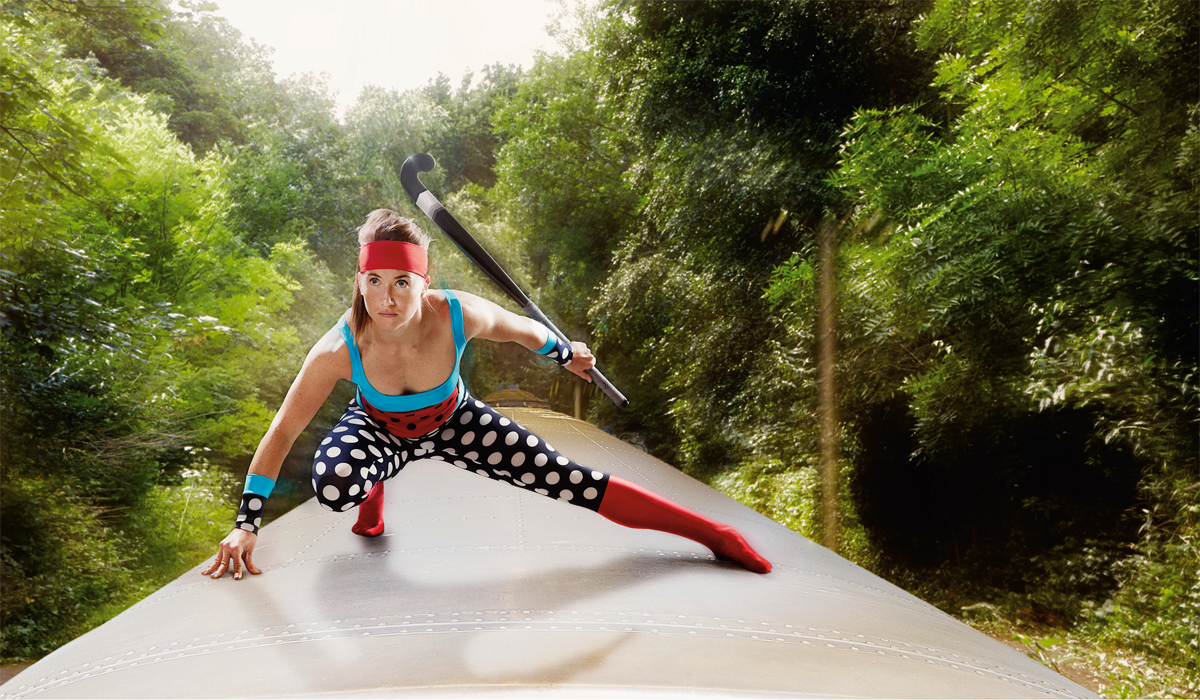
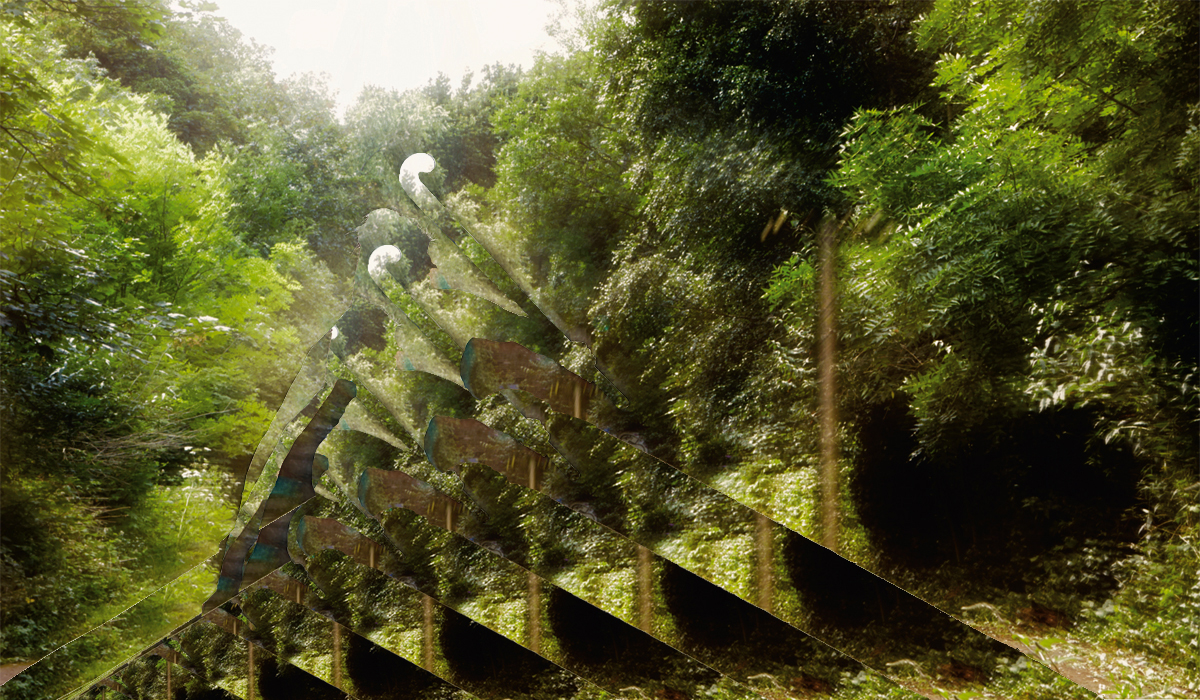
new background effects

Changed region(s): [[0.0, 0.21, 0.925, 1.0]]

diff --git a/src/css/site.scss b/src/css/site.scss
@@ -79,24 +79,37 @@
 			z-index: 1;
 			&.contains-loaded-img{
 				overflow: hidden;
+				&#wrap-gv-tgb-ellie-simmonds{
+					&:after{
+						position: absolute;
+						top: 0;
+						left: 0;
+						content: '';
+						width: 3261px;
+						height: 100%;
+						z-index: 1;
+						animation: shiftBackground 40s linear 1;
+					}
+				}
+				&#wrap-gv-tgb-maddie-hinch,
+				&#wrap-gv-tgb-tom-daley{
+					&:after{
+						position: absolute;
+						top: 0;
+						left: 0;
+						content: '';
+						width: 3261px;
+						height: 100%;
+						z-index: 1;
+						animation: scaleBackground 10s linear 1;
+					}
+				}
 			}
 			img {
 				position: relative;
 				width: 100%;
 				max-width: 100%;
 				z-index: 2;
-			}
-			&#wrap-gv-tgb-ellie-simmonds{
-				&:after{
-					position: absolute;
-					top: 0;
-					left: 0;
-					content: '';
-					width: 3261px;
-					height: 100%;
-					z-index: 1;
-					animation: transformedBackground 40s linear infinite; /* infinite */
-				}
 			}
 		}
 	}
@@ -596,12 +609,36 @@
 }
 
 
-@-webkit-keyframes transformedBackground {
-	from { -webkit-transform: translateX(0); }
-	to { -webkit-transform: translateX(-70%); }
+/*  
+	ANIMATION - LEFT/RIGHT
+-----------------------------------*/
+
+@-webkit-keyframes shiftBackground {
+	from { -webkit-transform: translateX(-70%); }
+	to { -webkit-transform: translateX(0); }
 }
 
-@keyframes transformedBackground {
-	from { -webkit-transform: translateX(0); }
-	to { -webkit-transform: translateX(-70%); }
+
+
+/*  
+	ANIMATION - SCALE (FROM LEFT)
+-----------------------------------*/
+
+@-webkit-keyframes scaleBackground {
+	from { 
+		-webkit-transform: scale(1.05);
+		-webkit-transform-origin: top center; 
+	}
+	to { 
+		-webkit-transform: scale(1);
+		-webkit-transform-origin: top left; 
+	}
 }
+
+
+
+
+
+
+
+

diff --git a/src/js/app/main.js b/src/js/app/main.js
@@ -255,7 +255,13 @@ define([
             img.className += " img-loaded";
             containingDiv.className += " contains-loaded-img";
             if (containingDiv.id == "wrap-gv-tgb-ellie-simmonds"){
-                img.src = "{{assets}}/imgs/real/gv-tgb-ellie-simmonds-big.png"
+                img.src = "{{assets}}/imgs/real/gv-tgb-ellie-simmonds-big.png";
+            }
+            if (containingDiv.id == "wrap-gv-tgb-maddie-hinch"){
+                img.src = "{{assets}}/imgs/real/gv-tgb-maddie-hinch-big.png";
+            }
+            if (containingDiv.id == "wrap-gv-tgb-tom-daley"){
+                img.src = "{{assets}}/imgs/real/gv-tgb-tom-daley-big.png";
             }
             // img.style.opacity = 0;
           }
